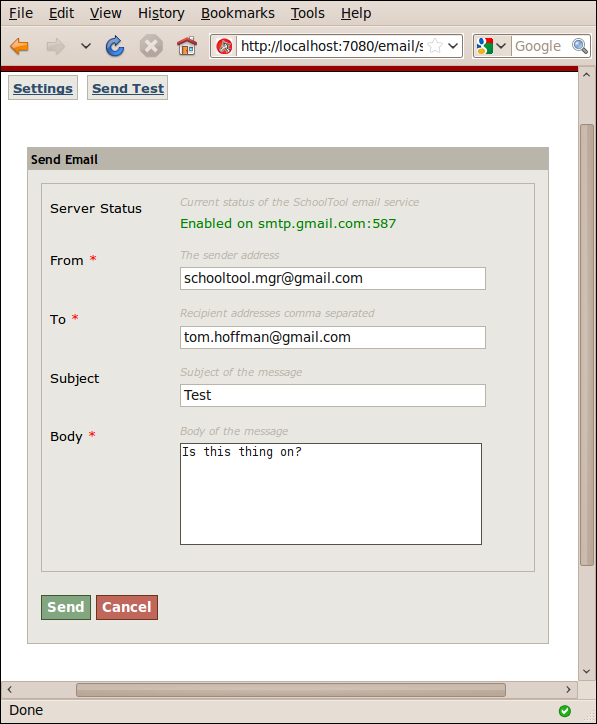
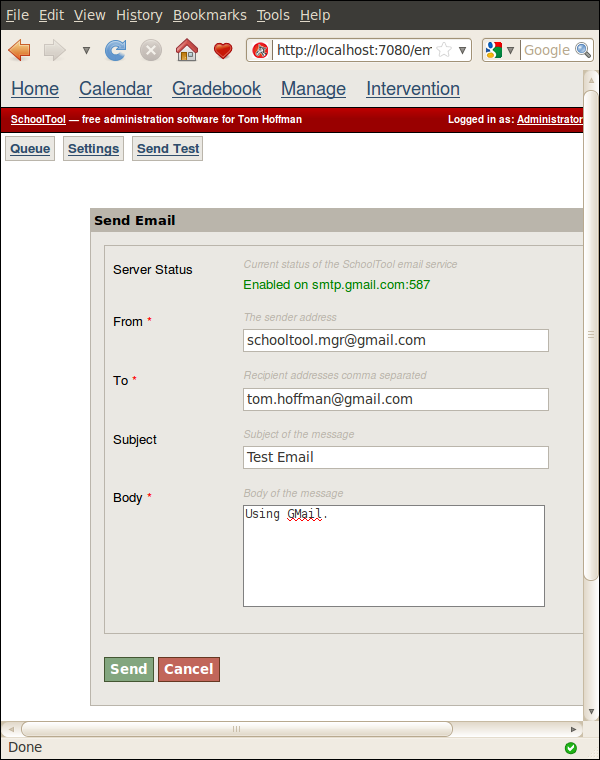
Continued upgrading install, requirements, email.

diff --git a/selenium/selenium-suite.html b/selenium/selenium-suite.html
@@ -9,6 +9,7 @@
 <table id="suiteTable" cellpadding="1" cellspacing="1" border="1" class="selenium"><tbody>
 <tr><td><b>Test Suite</b></td></tr>
 <tr><td><a href="initial.html">initial</a></td></tr>
+<tr><td><a href="email.html">email</a></td></tr>
 <tr><td><a href="years.html">years</a></td></tr>
 <tr><td><a href="terms.html">terms</a></td></tr>
 <tr><td><a href="timetables.html">timetables</a></td></tr>

diff --git a/source/conf.py b/source/conf.py
@@ -36,7 +36,7 @@ master_doc = 'index'
 
 # General substitutions.
 project = "The SchoolTool Book"
-copyright = '2009, the Shuttleworth Foundation'
+copyright = '2010, the Shuttleworth Foundation'
 
 # The default replacements for |version| and |release|, also used in various
 # other places throughout the built documents.

diff --git a/source/email.rst b/source/email.rst
@@ -1,17 +1,17 @@
 Setting up Outgoing Email Service
 =================================
 
-SchoolTool can send emails through your school email server or another SMTP server.  That is, SchoolTool is not an email server, it sends mail as an email *client*, like a desktop application such as Evolution, Outlook or Mail on Mac OS X.  
+SchoolTool can send emails through your school email server or another SMTP server.  That is, SchoolTool is not an email server, it sends mail as an email *client*, like a desktop application such as Evolution or Outlook.  
 
-The email service was developed as part of the Intervention package, and it is currently only used within Intervention.  There are, of course, many other places within SchoolTool where email notifications and messages would be useful, and we welcome your suggestions.
+To enable SchoolTool to send emails, you will need the instructions from your school's server, your ISP, or your webmail provider to configure a mail client to send mail via the provider's SMTP service.  
 
-To enable SchoolTool to send emails, you will need the instructions from your school's server, your ISP, or your webmail provider to configure a mail client to send mail via the provider's SMTP service.  You can also install a free mail server using the Ubuntu package manager, such as ''postfix'' or ''sendmail.''  Instructions for doing so are outside the scope of this document.
+You can also install and use a free mail server using the Ubuntu package manager, such as ``postfix`` or ``sendmail.``  Instructions for doing so are outside the scope of this document.  Running a mail server requires a knowledgeable systems administrator.
 
-For example, here's the relevant data for enabling GMail:
+As an example of an external email service, here's the relevant data for enabling GMail:
 
     .. image:: images/email-1.png
 
-Logged in as **manager**, go to **Manage** and then **Outgoing Email**:
+To send email through Gmail, log in as **manager**, and go to **Manage** and then **Outgoing Email**:
 
     .. image:: images/email-2.png
 
@@ -20,6 +20,8 @@ Click on Settings, and enter the appropriate data for your server.  Note that th
 **Note:** Outgoing emails from SchoolTool will use this email address, not the email address of a specific user within SchoolTool; e.g., in the example below, all notifications coming from SchoolTool will appear to be from schooltool.mgr@gmail.com. 
 
 A TLS connection is a type of secure connection between SchoolTool and the mail server.
+
+As the label suggests, the outgoing email service won't do anything until you check (and **Apply**) the **Enable** box.  Do the opposite to turn it off.
 
     .. image:: images/email-3.png
 

diff --git a/source/setup-initial.rst b/source/setup-initial.rst
@@ -10,23 +10,19 @@ Once you've installed the SchoolTool server, it will automatically start running
 
 The SchoolTool server process will take up some of your computer's memory.  Whether or not you will notice this depends on how much memory you have on your computer, which other applications you use, and how many applications and server processes you use at the same time.
 
-You can start and stop the process manually if you'd like.  If you aren't used to doing this, you can install the ``sysvconfig`` package to make the commands a little more straightforward::
-
-    $ sudo apt-get install sysvconfig
-    
-then you can use::
+You can start and stop the process manually if you'd like::
 
     $ sudo service schooltool-2009 stop
     $ sudo service schooltool-2009 start
 
-Note that there can be a delay of 30 seconds to a minute between when you issue the start command and when SchoolTool's web interface is accessible.
+Note that there can be a delay of 30 seconds to a minute between when you issue the start command and the prompt returns, and when SchoolTool's web interface is actually accessible from a browser.
 
 Or, if you are more used to init.d scripts you can still use:: 
 
     $ sudo /etc/init.d/schooltool-2009 stop
     $ sudo /etc/init.d/schooltool-2009 start
 
-If you want to use SchoolTool over a network or the internet go to :ref:`remote`.
+**If you want to use SchoolTool over a network or the internet go to :ref:`remote`.**
 
 .. _managepass:
 

diff --git a/source/system-requirements.rst b/source/system-requirements.rst
@@ -6,6 +6,10 @@ School Level Deployments or Greater
 
 For production deployment in a school or district, proper server hardware is, of course, recommended.  If SchoolTool is not the only service provided on the server, we recommend running SchoolTool by itself on a virtual server, running the "minimal virtual machine" configuration. 
 
+We recommend and support installation of SchoolTool on `Ubuntu Linux <http://ubuntu.com>`_ version 10.04, "Lucid Lynx" or 9.10, "Karmic Koala."  With either of these versions you will get SchoolTool 1.4.  
+
+**For the sake of brevity and clarity, his document assumes an Ubuntu installation equal to or later than 9.10.**
+
 Personal
 --------
 

diff --git a/source/install.rst b/source/install.rst
@@ -3,7 +3,7 @@
 Installing SchoolTool on Ubuntu
 ===============================
 
-We recommend and support installation of SchoolTool on `Ubuntu Linux <http://ubuntu.com>`_ version 10.04, "Lucid Lynx" or 9.10, "Karmic Koala."  With either of these versions you will get SchoolTool 1.4.  
+Start by installing the server or desktop edition of `Ubuntu Linux <http://ubuntu.com>`_ version 10.04, "Lucid Lynx" or 9.10, "Karmic Koala."  With either of these versions you will get SchoolTool 1.4.  
 
 #. Add `SchoolTool PPA <https://launchpad.net/~schooltool-owners/+archive/ppa/>`_ to your Software Sources.
 

diff --git a/source/install-toc.rst b/source/install-toc.rst
@@ -9,7 +9,6 @@ Contents:
    system-requirements
    install
    upgrade-lucid
-   upgrade2009
    setup-initial
    email
    translations
